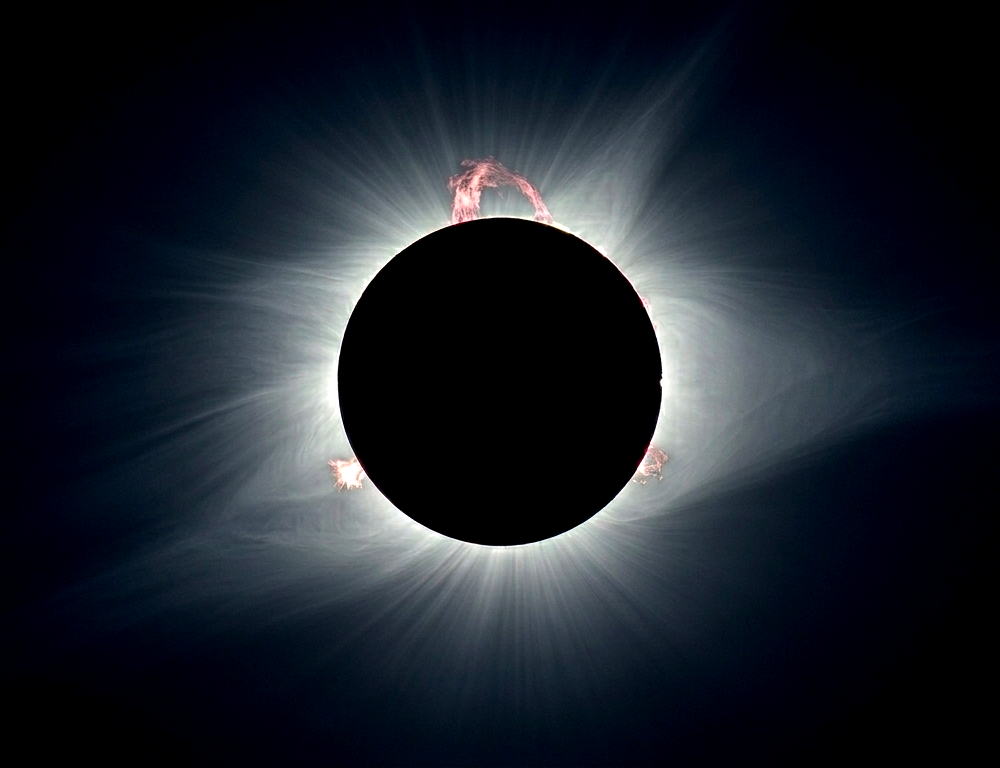
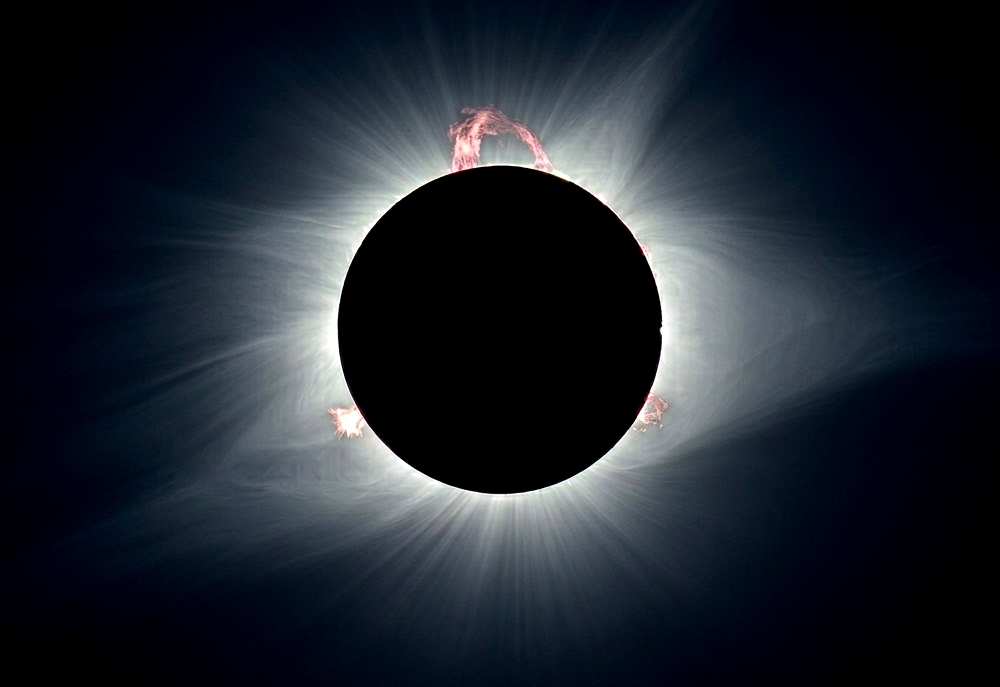
Update CLAUDE.md, gradle config, and eclipse photo asset
- CLAUDE.md: add branch workflow instructions
- Gradle: update versions and properties
- TotalSolarEclipse.png: updated asset

diff --git a/CLAUDE.md b/CLAUDE.md
@@ -80,5 +80,7 @@ Data covers 2021-01-01 to 2031-01-01 at 6-hour resolution.
 
 Uses Compose `Canvas` with `drawIntoCanvas { canvas.nativeCanvas... }` for custom astronomical graphics. Gestural input via `pointerInput()` for pan/zoom on applicable screens.
 
+When adding a new feature, or fixing a bug, create a git branch first. Then work on changes to that branch until you are asked to merge it.
+
 Don't compile, build or run the app. Builds and testing will be done in Android Studio/
 Ask questions before generating new code if a prompt is unclear or ambiguous
